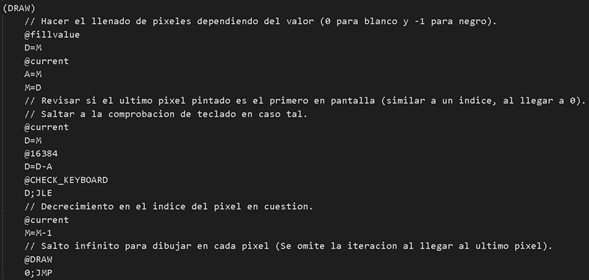
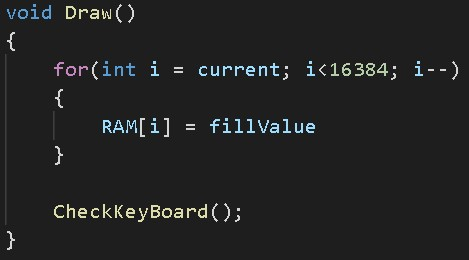
Actualizamos bloque de codigo Draw

diff --git a/resources/Script para sustentacion evaluacion #1.cs b/resources/Script para sustentacion evaluacion #1.cs
@@ -51,6 +51,8 @@ void Draw()
     {
         RAM[i] = fillValue
     }
+    
+    CheckKeyBoard();
 }
 
 // Condicional que asigna el valor de llenado dependiendo de el input del teclado.
